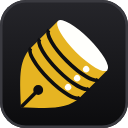
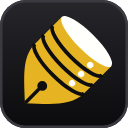
chore: Center the mark on its area centroid
At 45° the nib's point fills its bounding box's bottom-left corner while the
round lid leaves the top-right one empty, so box-centering left a gap at the
top-right. The mark now sits on its area centroid, and docs/brand.md
records the rule and why.

Claude-Session: https://claude.ai/code/session_01BXxxyWXz4Rjne6pSy1tMXN

Changed region(s): [[0.1562, 0.125, 0.875, 0.8438]]

diff --git a/docs/brand.md b/docs/brand.md
@@ -205,13 +205,17 @@ so no viewer needs the font.
 | Element | Value |
 |---|---|
 | Frame | 512 grid, corner radius 104, a 10-unit edge inside the square |
-| Pen | 45°; its bounding box fills 69% of the frame, centered |
+| Pen | 45°; its bounding box is 69% of the frame; its area centroid sits on the frame's center |
 | Pen body | A cylinder of radius 120 (lid ellipse 120 × 32) holding three 44-unit disks, divided by 13-unit black arcs; each disk's light has radius 11, at 55% of the radius to the right |
 | Lockup | The wordmark's capitals stand 52% of the icon's height, a quarter of that height from it |
 | Social preview | 1280 × 640; the pen 330 units wide; wordmark capitals 84, tagline capitals 34 |
 
 The pen fills 69% rather than more because it is a solid mass: a heavy mark
 needs more clear space than a line mark of the same size to look the same size.
+It is centered on its area centroid, not its bounding box. At 45° the point
+reaches the box's bottom-left corner while the round lid leaves the top-right
+one empty, so the box's center sits off the mark's mass and the top-right
+reads as a gap; the centroid balances the mark the way the eye weighs it.
 
 **Files** (`assets/`):
 
